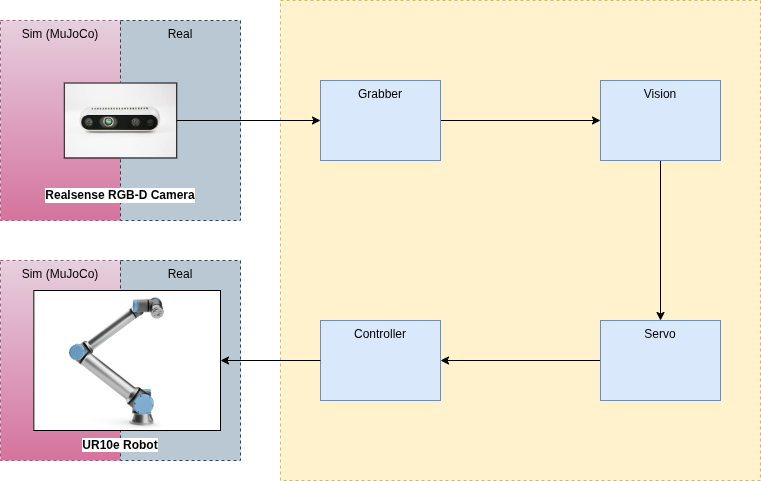
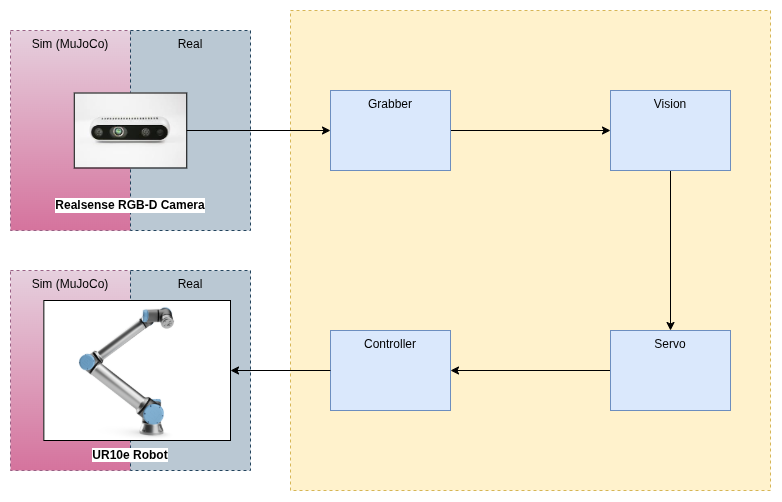
Added pegs

Changed region(s): [[0.0, 0.0, 1.0, 1.0]]

diff --git a/ur10e_mujoco_env/env/targets.py b/ur10e_mujoco_env/env/targets.py
@@ -1,0 +1,119 @@
+import numpy as np
+from dm_control import mjcf
+
+class Peg(object):
+    """
+    A class representing a pool cue with motion capture capabilities.
+    """
+
+    def __init__(self, type='square'):
+        """
+        Initializes a new instance of the PoolCuepeg class.
+
+        Args:
+            mjcf_root: The root element of the MJCF model.
+        """
+        self._mjcf_root = mjcf.RootElement()
+        self._peg_body = self._mjcf_root.worldbody.add("body", name="square_peg")
+        if type == 'square':
+            self._peg_body.add(
+                "geom",
+                type="box",
+                size=[0.01, 0.01, 0.05],
+                density=1000,
+                rgba=[0, 1, 0, 1]
+            )
+        elif type == 'round':
+            self._peg_body.add(
+                "geom",
+                type="cylinder",
+                size=[0.01, 0.05],
+                density=1000,
+                rgba=[0, 0, 1, 1]
+            )
+        else:
+            raise Exception("Incompatible peg type specified! Supported types are 'square' and 'round'")
+        
+    @property
+    def mjcf_root(self) -> object:
+        """
+        Gets the root element of the MJCF model.
+
+        Returns:
+            The root element of the MJCF model.
+        """
+        return self._mjcf_root
+    
+
+class Hole(object):
+    """
+    A class representing a pool cue with motion capture capabilities.
+    """
+
+    def __init__(self, mjcf_root, type='square'):
+        """
+        Initializes a new instance of the PoolCuepeg class.
+
+        Args:
+            mjcf_root: The root element of the MJCF model.
+        """
+        self._mjcf_root = mjcf_root
+
+        self.hole_body = self._mjcf_root.worldbody.add("body", name="square_peg", mocap=True)
+        self.hole_body.add(
+            "geom",
+            type="box",
+            size=[0.01, 0.01, 0.05],
+            density=1000,
+            rgba=[0, 1, 0, 1]
+        )
+
+    @property
+    def mjcf_root(self) -> object:
+        """
+        Gets the root element of the MJCF model.
+
+        Returns:
+            The root element of the MJCF model.
+        """
+        return self._mjcf_root
+
+    @property
+    def peg_body(self) -> object:
+        """
+        Gets the peg body.
+
+        Returns:
+            The peg body.
+        """
+        return self._square_peg
+
+    def set_peg_pose(self, physics, position=None, quaternion=None):
+        """
+        Sets the pose of the peg body.
+
+        Args:
+            physics: The physics simulation.
+            position: The position of the peg body.
+            quaternion: The quaternion orientation of the peg body.
+        """
+
+        # flip quaternion xyzw to wxyz
+        quaternion = np.roll(np.array(quaternion), 1)
+
+        if position is not None:
+            physics.bind(self.peg_body).mocap_pos[:] = position
+        if quaternion is not None:
+            physics.bind(self.peg_body).mocap_quat[:] = quaternion
+
+    def get_peg_pose(self, physics):
+        
+        position = physics.bind(self.peg_body).mocap_pos[:]
+        quaternion = physics.bind(self.peg_body).mocap_quat[:]
+
+        # flip quaternion wxyz to xyzw
+        quaternion = np.roll(np.array(quaternion), -1)
+
+        pose = np.concatenate([position, quaternion])
+
+        return pose

diff --git a/ur10e_mujoco_env/env/ur10e_env.py b/ur10e_mujoco_env/env/ur10e_env.py
@@ -8,8 +8,10 @@ from dm_control import mjcf
 from .arena import StandardArena
 from .arm import Arm
 from .target import Target
+from .targets import Peg
 from ur10e_mujoco_env.controllers.operational_space_controller import OperationalSpaceController
-
+from scipy.spatial.transform import Rotation as R
+import numpy as np
 
 class UR10eMjEnv(gym.Env):
     metadata = {
@@ -43,19 +45,33 @@ class UR10eMjEnv(gym.Env):
 
         # ur5e arm
         self._arm = Arm(
-            xml_path= os.path.join(
-                os.path.dirname(__file__),
-                '../assets/ur10e_eoat.xml',
-            ),
+            xml_path= os.path.join(os.path.dirname(__file__), '../assets/ur10e_eoat.xml',),
             eef_site_name='eef_site',
             attachment_site_name='attachment_site'
         )
-
         # attach arm to arena
         self._arena.attach(
-            self._arm.mjcf_model, pos=[0,0,0], quat=[0.7071068, 0, 0, -0.7071068]
+            self._arm.mjcf_model, pos=[0, 0, 0], quat=[0.7071068, 0, 0, -0.7071068]
         )
-       
+
+        # Spawn three square and three round pegs
+        num_peg = 3
+        for i in range(num_peg):
+            peg = Peg(type='square')
+            rand_pos = [np.random.uniform(-1, 1), np.random.uniform(-1, 1), np.random.uniform(0.5, 1)]
+            rand_quat = R.random().as_quat().tolist()
+            self._arena.attach_free(
+                peg.mjcf_root, pos=rand_pos, quat=rand_quat
+            )
+
+        for i in range(num_peg):
+            peg = Peg(type='round')
+            rand_pos = [np.random.uniform(-1, 1), np.random.uniform(-1, 1), np.random.uniform(0.5, 1)]
+            rand_quat = R.random().as_quat().tolist()
+            self._arena.attach_free(
+                peg.mjcf_root, pos=rand_pos, quat=rand_quat
+            )
+
         # generate model
         self._physics = mjcf.Physics.from_mjcf_model(self._arena.mjcf_model)
 

diff --git a/ur10e_mujoco_env/env/arena.py b/ur10e_mujoco_env/env/arena.py
@@ -18,14 +18,14 @@ class StandardArena(object):
             width=300,
             height=300,
             rgb1=[0.2, 0.3, 0.4],
-            rgb2=[0.3, 0.4, 0.5],
+            rgb2=[0.3, 0.4, 0.5]
         )
         grid = self._mjcf_model.asset.add(
             "material",
             name="grid",
             texture=chequered,
             texrepeat=[5, 5],
-            reflectance=0.2,
+            reflectance=0.2
         )
         self._mjcf_model.worldbody.add("geom", type="plane", size=[2, 2, 0.1], material=grid)
         for x in [-2, 2]:
